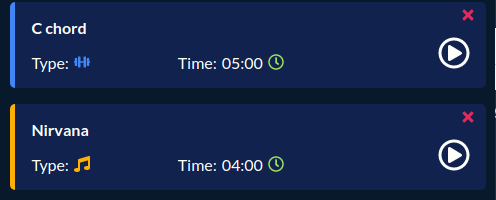
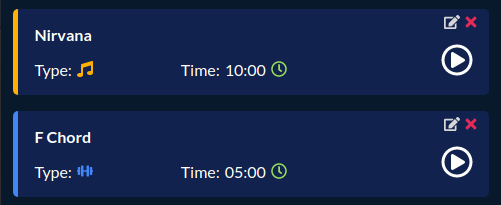
edit practice item

Changed region(s): [[0.0, 0.0, 1.0, 1.0], [0.3629, 0.27, 0.5746, 0.39], [0.3629, 0.78, 0.5746, 0.87]]

diff --git a/client/src/css/main.min.css b/client/src/css/main.min.css
@@ -1,1 +1,1 @@
-*{font-family:'Lato', sans-serif;font-size:16px;margin:0;padding:0;box-sizing:border-box}ul{list-style-type:none}img{width:100%}input{outline:none}a{text-decoration:none;color:#fefefb}a:hover{color:#4285f4}p{font-size:1.15rem;line-height:1.5rem}h1,h2,h3,h4{margin:1.5rem 0}h1{font-size:4rem}h2{font-size:2.5rem}h3{font-size:1.25rem}h4{font-size:0.875rem}input,select{outline:none}button{outline:none;cursor:pointer}.accent-clr{color:#4285f4}.primary-btn{border-radius:25px;border:none;width:fit-content;transition:all 0.25s;color:#fff;font-size:1.5rem;line-height:1.5rem;background-color:#4285f4;padding:1.25rem 2rem}.primary-btn:hover{color:#fefefb;background-color:#3573d6}.secondary-btn{border-radius:25px;border:none;width:fit-content;transition:all 0.25s;padding:0.5rem;background-color:#ccc;margin:auto;margin-bottom:0.5rem;display:flex;align-items:center}.secondary-btn svg{color:#e94235;margin-right:0.5rem}.secondary-btn:hover{background-color:#b3b3b3}.logo,.logo span,.logo span svg{font-size:2rem}.muted{color:#999;font-size:0.9rem}.App{background-color:#fff;color:#222}.dash-container{display:flex;justify-content:center;align-items:center;height:100vh}.container{display:flex;background:#fefefb;border-radius:25px;box-shadow:0px 0px 11px 0px rgba(0,0,0,0.66);margin:1rem;margin:0 1rem;width:80vw;position:relative}@media screen and (max-width: 1350px){.container{width:90vw}}.spinner-container{margin:auto;width:2rem;grid-column:span 3}.spinner{margin:2.5rem auto;text-align:center;height:2rem;width:2rem;color:#4285f4;transform-origin:center center;animation:rotate 2s infinite linear}@keyframes rotate{0%{transform:rotate(0)}100%{transform:rotate(360deg)}}.error-container{grid-column:span 3;color:#d84f4f;text-align:center}.error-container .error-sign{font-size:1.5rem}#error-page{background:#fefefb;border-radius:25px;box-shadow:0px 0px 11px 0px rgba(0,0,0,0.66);margin:1rem;display:flex;flex-direction:column;align-items:center}#error-page h1{color:#d84f4f}#error-page h1 svg{font-size:3rem}#error-page h2{color:#08192c;padding:1rem 0}#error-page .error-icon{font-size:3rem}#error-page .secondary-btn{font-size:1.25rem}#error-page .secondary-btn:hover{color:#fff}aside{background:#08192c;color:#fefefb;padding:2rem;font-size:0.5rem;border-radius:25px 0 0 25px;height:80vh;overflow-y:scroll;flex:4}aside::-webkit-scrollbar{width:0}@media screen and (max-width: 1250px){aside{flex:5}}@media screen and (max-width: 1000px){aside{flex:6}}.metronome-container{flex:8;display:grid;place-content:center}@media screen and (max-width: 1250px){.metronome-container{flex:7}}@media screen and (max-width: 1000px){.metronome-container{flex:6}.metronome-container .metronome{margin:1rem}}.new-practice-item{background:#10224d;border-radius:5px;padding:1rem;margin-bottom:1rem}.form-group{display:grid;grid-template-columns:repeat(3, 1fr);height:auto}.title-group{grid-column:span 3;margin-bottom:0.5rem}.title-group input{width:80%}.duration-group,.type-group{display:flex;flex-direction:column}.duration-group input,.type-group input{max-width:80%}#add-new-item-btn{justify-self:end;align-self:flex-end;width:3rem;border-radius:5px;padding:0.35rem;border:none;background-color:#ccc}#add-new-item-btn:hover{background-color:#b3b3b3}input,select{border-radius:5px;border:none;padding:5px;margin-left:3px}.slide-btn{grid-column:span 3;margin-top:0.5rem;background:#08192c;padding:5px 0;cursor:pointer;border-radius:5px;width:100%;text-align:center}.form-group.hidden{max-height:0;overflow:hidden}.empty-items-text{text-align:center}.practice-item{position:relative;border-radius:5px;padding:1rem;background:#10224d;margin-bottom:1rem}.disable-item{opacity:0.35;pointer-events:none}.practice-item-wrapper{display:grid;grid-template-columns:repeat(3, 1fr)}.practice-item-title{grid-column:span 3;margin:0;font-size:1rem}.practice-item-details{grid-column:span 2;align-self:flex-end;display:grid;grid-template-columns:1fr 1fr}.practice-item-details span{display:flex;align-items:center}.practice-item-details span svg{margin-left:5px}.practice-item-time-value{margin-left:5px}.play-btn{justify-self:end;background:#10224d;color:#fefefb;border:none;cursor:pointer}.play-btn svg{font-size:2rem}.play-btn:hover{transform:scale(1.1)}.reset-btn-wrapper{position:absolute;z-index:1;top:0;left:0;width:100%;height:100%;background-color:transparent;backdrop-filter:blur(1px)}.reset-btn{background-color:transparent;border:none;width:fit-content;position:absolute;top:50%;left:50%;transform:translate(-50%, -50%)}.reset-btn svg{font-size:1.25rem;color:#fefefb}.reset-btn svg:hover{transform:scale(1.1)}.close-item{text-align:right;position:absolute;top:5px;right:10px;color:#e52a5a;cursor:pointer}.practice-item-type svg{color:#4285f4}#home{min-height:100vh;color:#222}#auth{background:url("../assets/signup-bg.jpg") no-repeat center/cover;height:100vh;width:100vw;display:grid;place-content:center}.auth__bg-overlay{position:absolute;top:0;left:0;width:100%;height:100%;background-color:#10224d;opacity:0.5}.auth__main-header{position:fixed;width:100%;top:0;left:0;z-index:1;background-color:#08192c;padding:1rem 1rem 1rem 10vw;color:#fefefb}.auth__main-header a{cursor:pointer}.auth__main-header a:hover{color:unset !important}.auth__main-header h1{margin:0}.auth__form{position:relative;z-index:2;background-color:#fff;border-radius:25px;box-shadow:0px 0px 11px 0px rgba(0,0,0,0.66);margin:1rem;padding:2rem;color:#222}.form-header h2,.form-header h2 span{font-size:2rem;margin-top:0;text-align:center}.form-body{display:flex;flex-direction:column}.auth__form-group{padding:1rem 0;text-align:center}.auth__form-group input{padding:1rem;width:350px;border-radius:15px;border:1px solid #222;font-size:1.1rem}.signup-btn{margin:1rem auto}.login-switch{text-align:center;font-size:0.9rem;margin-top:1rem}.login-switch span{font-size:0.9rem;color:#4285f4;cursor:pointer}@media screen and (max-width: 500px){.auth__main-header{z-index:3}.auth__form{margin-top:80px;width:100vw;height:100vh;border-radius:0;display:grid;place-content:center;margin:0}.auth__form-group input{width:80vw}.signup-btn{padding:1.5rem}}.landing__nav-container{background-color:#08192c;color:#fefefb;display:flex;justify-content:center;align-items:center;height:80px;position:fixed;top:0;left:0;width:100%;z-index:100}#burger-icon{display:none;font-size:1.9rem}.landing__nav-center{display:flex;margin:0 10rem}.nav-link{font-size:1.5rem;margin:1rem 2rem;cursor:pointer}.landing__nav-burger a{cursor:pointer}.landing__nav-burger a:hover{color:unset !important}.landing__nav-center li a,.landing__nav-account li a{font-size:1.25rem}.landing__nav-account{display:flex}.mobile-dropdown{display:flex}.home__active-link{text-decoration:underline;color:#3573d6}@media screen and (max-width: 1550px){h2{font-size:2rem}.landing__card-container{width:80vw !important}.landing__nav-center{margin:0 8rem}}@media screen and (max-width: 1450px){h2{font-size:1.75rem}p{font-size:1rem;line-height:1.5rem}.landing__card-container{width:90vw !important}.card-text-wrapper{flex:1}.card-img-wrapper{flex:1}.landing__nav-center{margin:0 3rem}#landing__hero{padding:1rem}}@media screen and (max-width: 968px){h1,h2,h3,h4{margin:0.75rem 0}h1{font-size:3rem}h2{font-size:2rem}p{font-size:1rem}.landing__nav-burger{display:flex;justify-content:space-between;align-items:center;width:100%;text-align:right;padding:0 1rem;color:#fefefb}#burger-icon{display:block}.landing__nav-container{flex-direction:column !important}.landing__nav-center{flex-direction:column;text-align:center;margin:0}.nav-link{margin:0.5rem}.landing__nav-account{flex-direction:column-reverse;text-align:center}.mobile-dropdown{display:block;position:fixed;top:80px;background-color:#08192c;max-height:0;overflow:hidden;transition:all 0.5s ease-in-out;width:100%}.nav-link{margin:0}.nav-link a{display:inline-block;padding:0.5rem;width:100%}.landing__hero-text p{font-size:1rem;line-height:1.5rem}.landing__hero-text h1 span{font-size:3rem !important}.landing__hero-img-wrapper{max-width:480px}.primary-btn{font-size:1.25rem;line-height:1.25rem;background-color:#4285f4;width:fit-content;padding:1.25rem 2rem;border-radius:25px;transition:all 0.25s}.landing__card-container{flex-direction:column;align-items:center;text-align:center}.landing__card-container.card-reverse{flex-direction:column !important}.card-text-wrapper{max-width:90%;margin:0;margin-bottom:2rem}.card-img-wrapper,.landing__card-container.reverse .card-img-wrapper{margin:0}.landing__card-container.card-reverse .card-img-wrapper{margin-right:0}}@media screen and (max-width: 789px){#landing__hero{display:flex;flex-direction:column;align-items:center;padding:1rem !important}.landing__hero-text{text-align:center}.primary-btn{margin:auto}}@media screen and (max-width: 600px){.landing__hero-text h1 span{font-size:2.5rem !important}h1{font-size:2.5rem}}@media screen and (max-width: 500px){.landing__card-container,.landing__card-container.card-reverse{padding:1rem}.card-img-wrapper{margin:0}.landing__hero-text h1 span{font-size:2rem !important}h1{font-size:2rem}h2{font-size:1.5rem}#landing__footer{padding:1rem !important}#landing__footer .logo{margin-right:1rem !important}}.visible{height:auto;max-height:225px}#landing__hero{background-color:#10224d;display:flex;justify-content:space-around;padding:1rem 5rem;margin-top:80px}.landing__hero-text{flex:1;display:flex;flex-direction:column;justify-content:center;color:#fefefb}.landing__hero-text h1 span{font-size:4rem}.landing__hero-text p{font-size:1.25rem;line-height:2rem;margin:1.5rem 0}.landing__hero-img-wrapper{flex:1;position:relative;max-width:680px;margin:1.5rem}.landing__hero-img-wrapper img{border-radius:25px;height:100%}.landing__hero-img-wrapper::after{content:'';position:absolute;top:0;left:0;width:100%;height:100%;border-radius:25px;background:linear-gradient(to top right, rgba(10,25,61,0.9) 0%, rgba(10,25,61,0.5) 40%, rgba(10,25,61,0.5) 60%, rgba(10,25,61,0.9) 100%)}#landing__overview{display:flex;flex-direction:column;align-items:center;padding:2rem;background:#fefefb}.landing__card-container{width:70vw;display:flex;justify-content:space-between;background:#fefefb;border-radius:25px;box-shadow:0px 0px 11px 0px rgba(0,0,0,0.66);margin:1rem;padding:2rem}.landing__card-container.card-reverse{flex-direction:row-reverse}.card-text-wrapper{color:#08192c;margin-right:1rem;max-width:520px;flex:2}.card-img-wrapper{margin-left:1rem;max-width:480px;flex:1;display:grid;place-content:center}.landing__card-container.card-reverse .card-img-wrapper{margin-right:1rem}.card-img-wrapper img{border-radius:25px}#landing__about{background-color:#10224d;color:#fefefb;text-align:center;padding:3rem;padding-bottom:5rem;display:grid;place-items:center;min-height:100vh}#landing__about h2{padding-top:2rem}#landing__about h3{margin:3rem}.landing__about-text{width:50vw;margin:auto}.landing__about-img-wrapper{max-width:300px;margin:1rem auto;position:relative}.landing__about-img-wrapper img{border-radius:25px}.landing__about-img-wrapper::after{content:'';position:absolute;top:0;left:0;width:100%;height:100%;border-radius:25px;background:linear-gradient(to top right, rgba(10,25,61,0.9) 0%, rgba(10,25,61,0.5) 40%, rgba(10,25,61,0.5) 60%, rgba(10,25,61,0.9) 100%)}#landing__footer{display:flex;justify-content:space-around;background-color:#08192c;color:#fefefb;padding:2rem}#landing__footer .logo{margin:0}.dash-nav{position:absolute;top:0;left:0;width:100%;z-index:10;background-color:#08192c;color:#fefefb;border-radius:25px 25px 0 0;padding:0.5rem 1rem;display:flex;justify-content:space-between;box-shadow:0px 3px 10px -2px rgba(255,255,255,0.35)}.dash-controls svg{font-size:1.25rem;margin-left:1rem}.dash-controls svg:hover{color:#3573d6;cursor:pointer}.username{color:#4285f4;font-weight:700}
+*{font-family:'Lato', sans-serif;font-size:16px;margin:0;padding:0;box-sizing:border-box}ul{list-style-type:none}img{width:100%}input{outline:none}a{text-decoration:none;color:#fefefb}a:hover{color:#4285f4}p{font-size:1.15rem;line-height:1.5rem}h1,h2,h3,h4{margin:1.5rem 0}h1{font-size:4rem}h2{font-size:2.5rem}h3{font-size:1.25rem}h4{font-size:0.875rem}input,select{outline:none}button{outline:none;cursor:pointer}.accent-clr{color:#4285f4}.primary-btn{border-radius:25px;border:none;width:fit-content;transition:all 0.25s;color:#fff;font-size:1.5rem;line-height:1.5rem;background-color:#4285f4;padding:1.25rem 2rem}.primary-btn:hover{color:#fefefb;background-color:#3573d6}.secondary-btn{border-radius:25px;border:none;width:fit-content;transition:all 0.25s;padding:0.5rem;background-color:#ccc;margin:auto;margin-bottom:0.5rem;display:flex;align-items:center}.secondary-btn svg{color:#e94235;margin-right:0.5rem}.secondary-btn:hover{background-color:#b3b3b3}.logo,.logo span,.logo span svg{font-size:2rem}.muted{color:#999;font-size:0.9rem}.App{background-color:#fff;color:#222}.dash-container{display:flex;justify-content:center;align-items:center;height:100vh}.container{display:flex;background:#fefefb;border-radius:25px;box-shadow:0px 0px 11px 0px rgba(0,0,0,0.66);margin:1rem;margin:0 1rem;width:80vw;position:relative}@media screen and (max-width: 1350px){.container{width:90vw}}.spinner-container{margin:auto;width:2rem;grid-column:span 3}.spinner{margin:2.5rem auto;text-align:center;height:2rem;width:2rem;color:#4285f4;transform-origin:center center;animation:rotate 2s infinite linear}@keyframes rotate{0%{transform:rotate(0)}100%{transform:rotate(360deg)}}.error-container{grid-column:span 3;color:#d84f4f;text-align:center}.error-container .error-sign{font-size:1.5rem}#error-page{background:#fefefb;border-radius:25px;box-shadow:0px 0px 11px 0px rgba(0,0,0,0.66);margin:1rem;display:flex;flex-direction:column;align-items:center}#error-page h1{color:#d84f4f}#error-page h1 svg{font-size:3rem}#error-page h2{color:#08192c;padding:1rem 0}#error-page .error-icon{font-size:3rem}#error-page .secondary-btn{font-size:1.25rem}#error-page .secondary-btn:hover{color:#fff}aside{background:#08192c;color:#fefefb;padding:2rem;font-size:0.5rem;border-radius:25px 0 0 25px;height:80vh;overflow-y:scroll;flex:4}aside::-webkit-scrollbar{width:0}@media screen and (max-width: 1250px){aside{flex:5}}@media screen and (max-width: 1000px){aside{flex:6}}.metronome-container{flex:8;display:grid;place-content:center}@media screen and (max-width: 1250px){.metronome-container{flex:7}}@media screen and (max-width: 1000px){.metronome-container{flex:6}.metronome-container .metronome{margin:1rem}}.new-practice-item{background:#10224d;border-radius:5px;padding:1rem;margin-bottom:1rem}.form-group{display:grid;grid-template-columns:repeat(3, 1fr);height:auto}.title-group{grid-column:span 3;margin-bottom:0.5rem}.title-group input{width:80%}.duration-group,.type-group{display:flex;flex-direction:column}.duration-group input,.type-group input{max-width:80%}#add-new-item-btn{justify-self:end;align-self:flex-end;width:3rem;border-radius:5px;padding:0.35rem;border:none;background-color:#ccc}#add-new-item-btn:hover{background-color:#b3b3b3}input,select{border-radius:5px;border:none;padding:5px;margin-left:3px}.slide-btn{grid-column:span 3;margin-top:0.5rem;background:#08192c;padding:5px 0;cursor:pointer;border-radius:5px;width:100%;text-align:center}.form-group.hidden{max-height:0;overflow:hidden}.empty-items-text{text-align:center}.practice-item{position:relative;border-radius:5px;padding:1rem;background:#10224d;margin-bottom:1rem}.disable-item{opacity:0.35;pointer-events:none}.practice-item-wrapper{display:grid;grid-template-columns:repeat(3, 1fr)}.practice-item-title{grid-column:span 3;margin:0;font-size:1rem}.practice-item-details{grid-column:span 2;align-self:flex-end;display:grid;grid-template-columns:1fr 1fr}.practice-item-details span{display:flex;align-items:center}.practice-item-details span svg{margin-left:5px}.practice-item-time-value{margin-left:5px}.play-btn{justify-self:end;background:#10224d;color:#fefefb;border:none;cursor:pointer}.play-btn svg{font-size:2rem}.play-btn:hover{transform:scale(1.1)}.reset-btn-wrapper{position:absolute;z-index:1;top:0;left:0;width:100%;height:100%;background-color:transparent;backdrop-filter:blur(1px)}.reset-btn{background-color:transparent;border:none;width:fit-content;position:absolute;top:50%;left:50%;transform:translate(-50%, -50%)}.reset-btn svg{font-size:1.25rem;color:#fefefb}.reset-btn svg:hover{transform:scale(1.1)}.item-controls{position:absolute;top:5px;right:10px}.item-controls svg{cursor:pointer}.edit-item{color:#d6d6d6;margin-right:3px}.edit-item:hover{color:#bdbdbd;transform:scale(1.1)}.close-item{color:#e52a5a}.close-item:hover{color:#c41844;transform:scale(1.1)}.practice-item-type svg{color:#4285f4}#home{min-height:100vh;color:#222}#auth{background:url("../assets/signup-bg.jpg") no-repeat center/cover;height:100vh;width:100vw;display:grid;place-content:center}.auth__bg-overlay{position:absolute;top:0;left:0;width:100%;height:100%;background-color:#10224d;opacity:0.5}.auth__main-header{position:fixed;width:100%;top:0;left:0;z-index:1;background-color:#08192c;padding:1rem 1rem 1rem 10vw;color:#fefefb}.auth__main-header a{cursor:pointer}.auth__main-header a:hover{color:unset !important}.auth__main-header h1{margin:0}.auth__form{position:relative;z-index:2;background-color:#fff;border-radius:25px;box-shadow:0px 0px 11px 0px rgba(0,0,0,0.66);margin:1rem;padding:2rem;color:#222}.form-header h2,.form-header h2 span{font-size:2rem;margin-top:0;text-align:center}.form-body{display:flex;flex-direction:column}.auth__form-group{padding:1rem 0;text-align:center}.auth__form-group input{padding:1rem;width:350px;border-radius:15px;border:1px solid #222;font-size:1.1rem}.signup-btn{margin:1rem auto}.login-switch{text-align:center;font-size:0.9rem;margin-top:1rem}.login-switch span{font-size:0.9rem;color:#4285f4;cursor:pointer}@media screen and (max-width: 500px){.auth__main-header{z-index:3}.auth__form{margin-top:80px;width:100vw;height:100vh;border-radius:0;display:grid;place-content:center;margin:0}.auth__form-group input{width:80vw}.signup-btn{padding:1.5rem}}.landing__nav-container{background-color:#08192c;color:#fefefb;display:flex;justify-content:center;align-items:center;height:80px;position:fixed;top:0;left:0;width:100%;z-index:100}#burger-icon{display:none;font-size:1.9rem}.landing__nav-center{display:flex;margin:0 10rem}.nav-link{font-size:1.5rem;margin:1rem 2rem;cursor:pointer}.landing__nav-burger a{cursor:pointer}.landing__nav-burger a:hover{color:unset !important}.landing__nav-center li a,.landing__nav-account li a{font-size:1.25rem}.landing__nav-account{display:flex}.mobile-dropdown{display:flex}.home__active-link{text-decoration:underline;color:#3573d6}@media screen and (max-width: 1550px){h2{font-size:2rem}.landing__card-container{width:80vw !important}.landing__nav-center{margin:0 8rem}}@media screen and (max-width: 1450px){h2{font-size:1.75rem}p{font-size:1rem;line-height:1.5rem}.landing__card-container{width:90vw !important}.card-text-wrapper{flex:1}.card-img-wrapper{flex:1}.landing__nav-center{margin:0 3rem}#landing__hero{padding:1rem}}@media screen and (max-width: 968px){h1,h2,h3,h4{margin:0.75rem 0}h1{font-size:3rem}h2{font-size:2rem}p{font-size:1rem}.landing__nav-burger{display:flex;justify-content:space-between;align-items:center;width:100%;text-align:right;padding:0 1rem;color:#fefefb}#burger-icon{display:block}.landing__nav-container{flex-direction:column !important}.landing__nav-center{flex-direction:column;text-align:center;margin:0}.nav-link{margin:0.5rem}.landing__nav-account{flex-direction:column-reverse;text-align:center}.mobile-dropdown{display:block;position:fixed;top:80px;background-color:#08192c;max-height:0;overflow:hidden;transition:all 0.5s ease-in-out;width:100%}.nav-link{margin:0}.nav-link a{display:inline-block;padding:0.5rem;width:100%}.landing__hero-text p{font-size:1rem;line-height:1.5rem}.landing__hero-text h1 span{font-size:3rem !important}.landing__hero-img-wrapper{max-width:480px}.primary-btn{font-size:1.25rem;line-height:1.25rem;background-color:#4285f4;width:fit-content;padding:1.25rem 2rem;border-radius:25px;transition:all 0.25s}.landing__card-container{flex-direction:column;align-items:center;text-align:center}.landing__card-container.card-reverse{flex-direction:column !important}.card-text-wrapper{max-width:90%;margin:0;margin-bottom:2rem}.card-img-wrapper,.landing__card-container.reverse .card-img-wrapper{margin:0}.landing__card-container.card-reverse .card-img-wrapper{margin-right:0}}@media screen and (max-width: 789px){#landing__hero{display:flex;flex-direction:column;align-items:center;padding:1rem !important}.landing__hero-text{text-align:center}.primary-btn{margin:auto}}@media screen and (max-width: 600px){.landing__hero-text h1 span{font-size:2.5rem !important}h1{font-size:2.5rem}}@media screen and (max-width: 500px){.landing__card-container,.landing__card-container.card-reverse{padding:1rem}.card-img-wrapper{margin:0}.landing__hero-text h1 span{font-size:2rem !important}h1{font-size:2rem}h2{font-size:1.5rem}#landing__footer{padding:1rem !important}#landing__footer .logo{margin-right:1rem !important}}.visible{height:auto;max-height:225px}#landing__hero{background-color:#10224d;display:flex;justify-content:space-around;padding:1rem 5rem;margin-top:80px}.landing__hero-text{flex:1;display:flex;flex-direction:column;justify-content:center;color:#fefefb}.landing__hero-text h1 span{font-size:4rem}.landing__hero-text p{font-size:1.25rem;line-height:2rem;margin:1.5rem 0}.landing__hero-img-wrapper{flex:1;position:relative;max-width:680px;margin:1.5rem}.landing__hero-img-wrapper img{border-radius:25px;height:100%}.landing__hero-img-wrapper::after{content:'';position:absolute;top:0;left:0;width:100%;height:100%;border-radius:25px;background:linear-gradient(to top right, rgba(10,25,61,0.9) 0%, rgba(10,25,61,0.5) 40%, rgba(10,25,61,0.5) 60%, rgba(10,25,61,0.9) 100%)}#landing__overview{display:flex;flex-direction:column;align-items:center;padding:2rem;background:#fefefb}.landing__card-container{width:70vw;display:flex;justify-content:space-between;background:#fefefb;border-radius:25px;box-shadow:0px 0px 11px 0px rgba(0,0,0,0.66);margin:1rem;padding:2rem}.landing__card-container.card-reverse{flex-direction:row-reverse}.card-text-wrapper{color:#08192c;margin-right:1rem;max-width:520px;flex:2}.card-img-wrapper{margin-left:1rem;max-width:480px;flex:1;display:grid;place-content:center}.landing__card-container.card-reverse .card-img-wrapper{margin-right:1rem}.card-img-wrapper img{border-radius:25px}#landing__about{background-color:#10224d;color:#fefefb;text-align:center;padding:3rem;padding-bottom:5rem;display:grid;place-items:center;min-height:100vh}#landing__about h2{padding-top:2rem}#landing__about h3{margin:3rem}.landing__about-text{width:50vw;margin:auto}.landing__about-img-wrapper{max-width:300px;margin:1rem auto;position:relative}.landing__about-img-wrapper img{border-radius:25px}.landing__about-img-wrapper::after{content:'';position:absolute;top:0;left:0;width:100%;height:100%;border-radius:25px;background:linear-gradient(to top right, rgba(10,25,61,0.9) 0%, rgba(10,25,61,0.5) 40%, rgba(10,25,61,0.5) 60%, rgba(10,25,61,0.9) 100%)}#landing__footer{display:flex;justify-content:space-around;background-color:#08192c;color:#fefefb;padding:2rem}#landing__footer .logo{margin:0}.dash-nav{position:absolute;top:0;left:0;width:100%;z-index:10;background-color:#08192c;color:#fefefb;border-radius:25px 25px 0 0;padding:0.5rem 1rem;display:flex;justify-content:space-between;box-shadow:0px 3px 10px -2px rgba(255,255,255,0.35)}.dash-controls svg{font-size:1.25rem;margin-left:1rem}.dash-controls svg:hover{color:#3573d6;cursor:pointer}.username{color:#4285f4;font-weight:700}

diff --git a/client/src/components/Dashboard/Sidebar/AddNewItem/AddNewItem.js b/client/src/components/Dashboard/Sidebar/AddNewItem/AddNewItem.js
@@ -1,25 +1,41 @@
-import { useState } from 'react';
+import { useState, useEffect } from 'react';
 import { FaChevronDown, FaChevronUp } from 'react-icons/fa';
-import { useDispatch } from 'react-redux';
-import { createItem } from '../../../../actions/items';
+import { useDispatch, useSelector } from 'react-redux';
+import {
+  createItem,
+  setCurrentId,
+  updateItem,
+} from '../../../../actions/items';
 
 const AddNewItem = () => {
   const [visible, setVisible] = useState(true);
+  const currentId = useSelector((state) => state.items.currentId);
   const user = JSON.parse(localStorage.getItem('guitar-pa-profile'));
+
+  const item = useSelector((state) =>
+    currentId ? state.items.items.find((item) => item._id === currentId) : null
+  );
+
+  useEffect(() => {
+    if (item) setItemData(item);
+  }, [currentId, item]);
 
   const [itemData, setItemData] = useState({
     title: '',
-    duration: 5,
+    duration: '',
     type: 'excercise',
     userId: user?.result._id,
     isDisabled: false,
   });
 
   const clear = () => {
+    dispatch(setCurrentId(null));
     setItemData({
       ...itemData,
       title: '',
-      duration: 5,
+      duration: '',
+      type: 'excercise',
+      isDisabled: false,
     });
   };
 
@@ -27,7 +43,11 @@ const AddNewItem = () => {
 
   const handleSubmit = (e) => {
     e.preventDefault();
-    dispatch(createItem(itemData));
+    if (currentId) {
+      dispatch(updateItem(currentId, itemData));
+    } else {
+      dispatch(createItem(itemData));
+    }
     clear();
   };
   return (
@@ -67,6 +87,7 @@ const AddNewItem = () => {
           <label htmlFor="type">Type</label>
           <select
             name="type"
+            value={itemData.type}
             onChange={(e) =>
               setItemData({ ...itemData, type: e.target.value })
             }>
@@ -76,7 +97,7 @@ const AddNewItem = () => {
         </div>
 
         <button type="submit" id="add-new-item-btn">
-          Add
+          {currentId ? 'Edit' : 'Add'}
         </button>
       </div>
 

diff --git a/client/src/actions/items.js b/client/src/actions/items.js
@@ -1,10 +1,12 @@
 import * as api from '../api';
 import {
-  CREATE_ITEMS,
+  CREATE_ITEM,
   DELETE_ITEM,
   FETCH_ITEMS,
   SET_ERROR,
   SET_LOADING,
+  SET_CURRENT_ID,
+  UPDATE_ITEM,
 } from '../constants/actionTypes';
 
 export const getItems = () => async (dispatch) => {
@@ -23,7 +25,17 @@ export const createItem = (item) => async (dispatch) => {
   try {
     const { data } = await api.createItem(item);
 
-    dispatch({ type: CREATE_ITEMS, payload: data });
+    dispatch({ type: CREATE_ITEM, payload: data });
+  } catch (error) {
+    console.log(error);
+    dispatch({ type: SET_ERROR, payload: error.message });
+  }
+};
+
+export const updateItem = (id, item) => async (dispatch) => {
+  try {
+    const { data } = await api.updateItem(id, item);
+    dispatch({ type: UPDATE_ITEM, payload: data });
   } catch (error) {
     console.log(error);
     dispatch({ type: SET_ERROR, payload: error.message });
@@ -38,5 +50,13 @@ export const deleteItem = (id) => async (dispatch) => {
   } catch (error) {
     console.log(error);
     dispatch({ type: SET_ERROR, payload: error.message });
+  }
+};
+
+export const setCurrentId = (id) => async (dispatch) => {
+  try {
+    dispatch({ type: SET_CURRENT_ID, payload: id });
+  } catch (error) {
+    console.log(error);
   }
 };

diff --git a/client/src/reducers/items.js b/client/src/reducers/items.js
@@ -1,9 +1,11 @@
 import {
   FETCH_ITEMS,
-  CREATE_ITEMS,
+  CREATE_ITEM,
   DELETE_ITEM,
   SET_LOADING,
   SET_ERROR,
+  SET_CURRENT_ID,
+  UPDATE_ITEM,
 } from '../constants/actionTypes';
 
 const defaultState = {
@@ -11,13 +13,14 @@ const defaultState = {
   isError: false,
   errorMsg: '',
   items: [],
+  currentId: null,
 };
 
 const itemsReducer = (state = defaultState, action) => {
   switch (action.type) {
     case FETCH_ITEMS:
       return { ...state, items: action.payload, isLoading: false };
-    case CREATE_ITEMS:
+    case CREATE_ITEM:
       return { ...state, items: [...state.items, action.payload] };
     case DELETE_ITEM:
       return {
@@ -32,6 +35,15 @@ const itemsReducer = (state = defaultState, action) => {
         isError: true,
         errorMsg: action.payload,
         isLoading: false,
+      };
+    case SET_CURRENT_ID:
+      return { ...state, currentId: action.payload };
+    case UPDATE_ITEM:
+      return {
+        ...state,
+        items: state.items.map((item) =>
+          item._id === action.payload._id ? action.payload : item
+        ),
       };
     default:
       return state;

diff --git a/client/src/components/Dashboard/Sidebar/Items/Item/Item.js b/client/src/components/Dashboard/Sidebar/Items/Item/Item.js
@@ -7,8 +7,9 @@ import {
   FaRegPlayCircle,
   FaRegPauseCircle,
   FaRedoAlt,
+  FaEdit,
 } from 'react-icons/fa';
-import { deleteItem } from '../../../../../actions/items';
+import { deleteItem, setCurrentId } from '../../../../../actions/items';
 import useTimer from '../../../../../hooks/useTimer';
 import { formatTime } from '../../../../../utils/helpers';
 
@@ -45,10 +46,16 @@ const Item = ({ item }) => {
             ? 'practice-item-wrapper disable-item'
             : 'practice-item-wrapper'
         }>
-        <FaTimes
-          className="close-item"
-          onClick={() => dispatch(deleteItem(item._id))}
-        />
+        <div className="item-controls">
+          <FaEdit
+            className="edit-item"
+            onClick={() => dispatch(setCurrentId(item._id))}
+          />
+          <FaTimes
+            className="close-item"
+            onClick={() => dispatch(deleteItem(item._id))}
+          />
+        </div>
         <h2 className="practice-item-title">{item.title}</h2>
         <div className="practice-item-details">
           <span>

diff --git a/client/src/components/Dashboard/Dashboard.js b/client/src/components/Dashboard/Dashboard.js
@@ -1,5 +1,5 @@
 import { useEffect } from 'react';
-import { useDispatch } from 'react-redux';
+import { useDispatch, useSelector } from 'react-redux';
 //Components
 import MainContent from './MainContent/MainContent';
 import Sidebar from './Sidebar/Sidebar';
@@ -9,10 +9,12 @@ import { getItems } from '../../actions/items';
 
 const Dashboard = () => {
   const dispatch = useDispatch();
+  const currentId = useSelector((state) => state.items.currentId);
 
   useEffect(() => {
     dispatch(getItems());
-  }, [dispatch]);
+  }, [currentId, dispatch]);
+
   return (
     <div className="dash-container">
       <main className="container">

diff --git a/server/controllers/items.js b/server/controllers/items.js
@@ -36,3 +36,21 @@ export const deleteItem = async (req, res) => {
 
   res.json({ message: 'Item deleted successfully' });
 };
+
+export const updateItem = async (req, res) => {
+  const { id: _id } = req.params;
+
+  const item = req.body;
+
+  if (!mongoose.Types.ObjectId.isValid(_id)) {
+    return res.status(404).json('No item with that ID');
+  }
+
+  const updatedItem = await PracticeItem.findByIdAndUpdate(
+    _id,
+    { ...item, _id },
+    { new: true }
+  );
+
+  res.json(updatedItem);
+};

diff --git a/server/routes/items.js b/server/routes/items.js
@@ -1,11 +1,17 @@
 import express from 'express';
-import { getItems, createItem, deleteItem } from '../controllers/items.js';
+import {
+  getItems,
+  createItem,
+  updateItem,
+  deleteItem,
+} from '../controllers/items.js';
 import auth from '../middleware/auth.js';
 
 const router = express.Router();
 
 router.get('/', auth, getItems);
 router.post('/', auth, createItem);
+router.patch('/:id', auth, updateItem);
 router.delete('/:id', auth, deleteItem);
 
 export default router;

diff --git a/client/src/constants/actionTypes.js b/client/src/constants/actionTypes.js
@@ -1,8 +1,10 @@
 export const FETCH_ITEMS = 'FETCH_ITEMS';
-export const CREATE_ITEMS = 'CREATE_ITEMS';
+export const CREATE_ITEM = 'CREATE_ITEM';
 export const DELETE_ITEM = 'DELETE_ITEM';
 export const SET_LOADING = 'SET_LOADING';
 export const SET_ERROR = 'SET_ERROR';
+export const SET_CURRENT_ID = 'SET_CURRENT_ID';
+export const UPDATE_ITEM = 'UPDATE_ITEM';
 
 export const AUTH = 'AUTH';
 export const LOGOUT = 'LOGOUT';

diff --git a/client/src/api/index.js b/client/src/api/index.js
@@ -13,6 +13,8 @@ API.interceptors.request.use((req) => {
 
 export const fetchItems = () => API.get('/items');
 export const createItem = (newItem) => API.post('/items', newItem);
+export const updateItem = (id, updatedItem) =>
+  API.patch(`/items/${id}`, updatedItem);
 export const deleteItem = (id) => API.delete(`/items/${id}`);
 
 export const signIn = (formData) => API.post('/user/signin', formData);

diff --git a/client/src/components/Dashboard/Sidebar/Items/Item/_Item.scss b/client/src/components/Dashboard/Sidebar/Items/Item/_Item.scss
@@ -75,13 +75,20 @@
     }
   }
 }
-.close-item {
-  text-align: right;
+.item-controls {
   position: absolute;
   top: 5px;
   right: 10px;
-  color: #e52a5a;
-  cursor: pointer;
+  svg {
+    cursor: pointer;
+  }
+}
+.edit-item {
+  @include button-color(#d6d6d6, 10);
+  margin-right: 3px;
+}
+.close-item {
+  @include button-color(#e52a5a, 10);
 }
 .practice-item-type {
   svg {

diff --git a/client/src/scss/_utils.scss b/client/src/scss/_utils.scss
@@ -25,3 +25,11 @@
     rgba(10, 25, 61, 0.9) 100%
   );
 }
+//for icon buttons
+@mixin button-color($color, $darken) {
+  color: $color;
+  &:hover {
+    color: darken($color, $darken);
+    transform: scale(1.1);
+  }
+}
